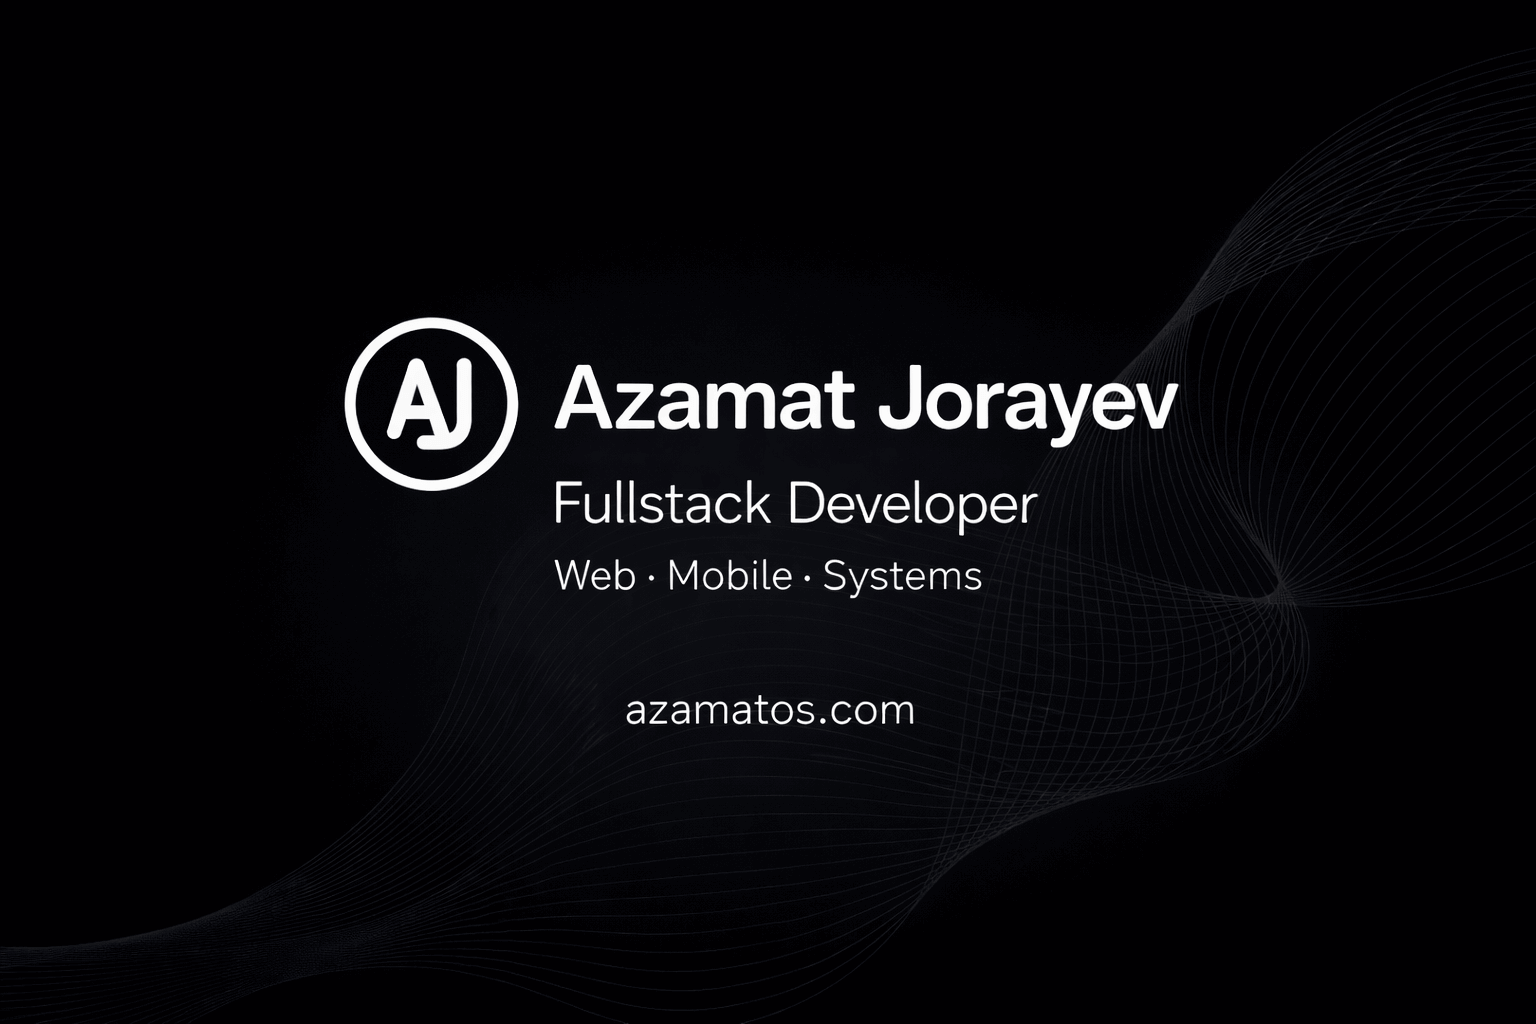
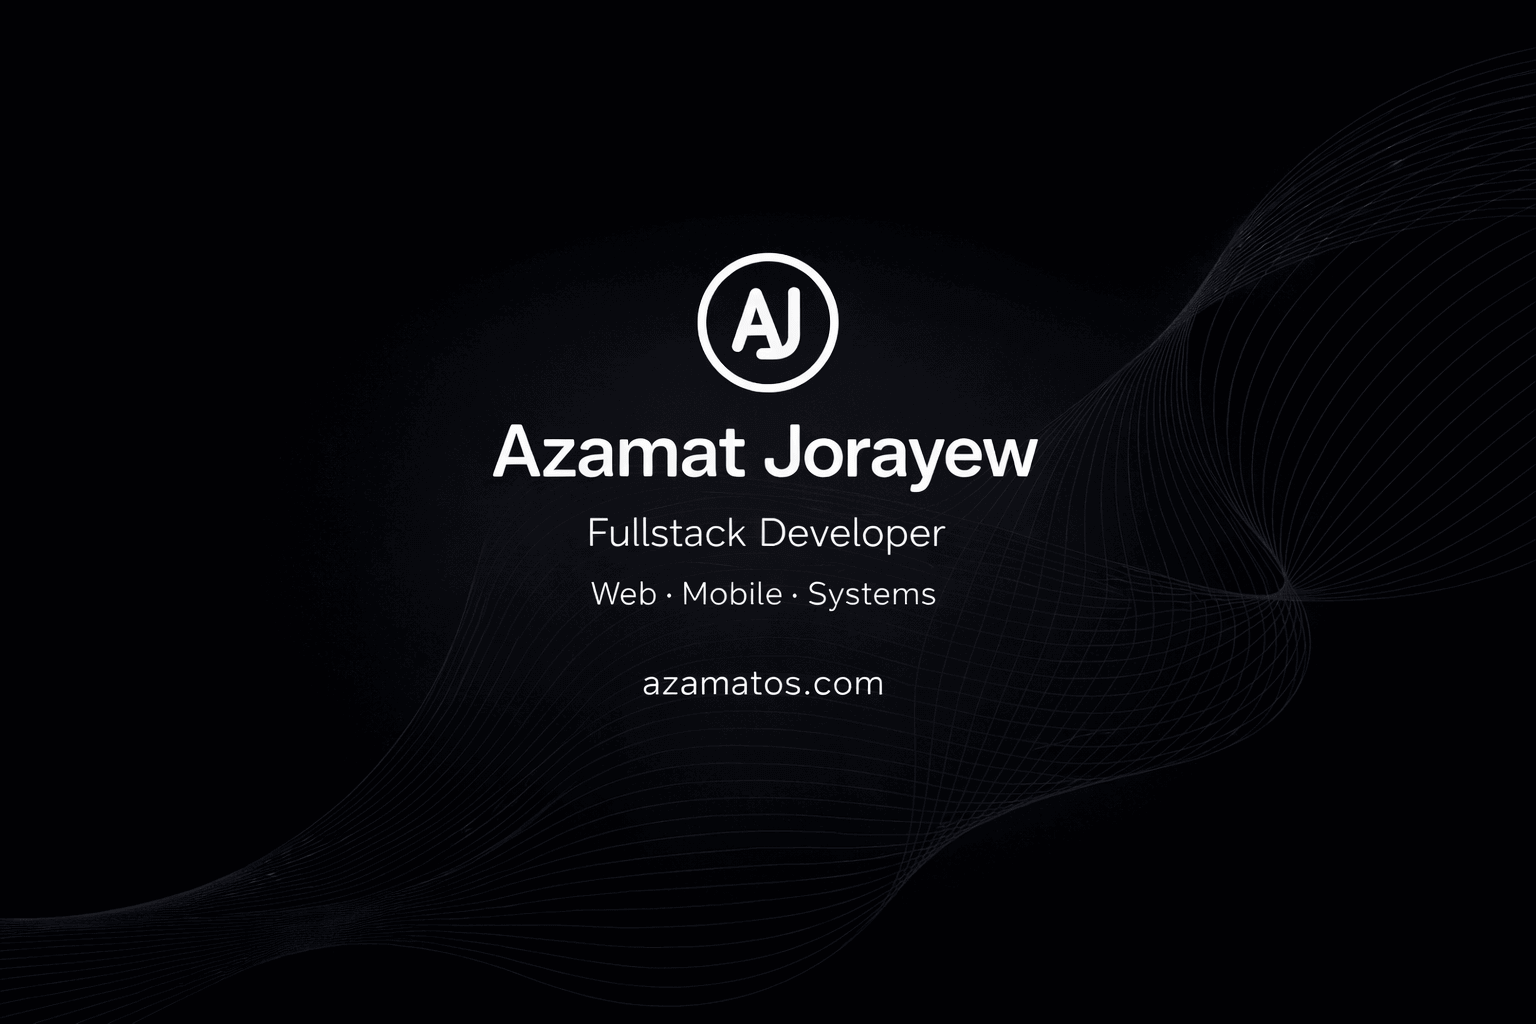
fix: Update lastname

diff --git a/index.html b/index.html
@@ -6,17 +6,17 @@
 
   <meta name="viewport" content="width=device-width, initial-scale=1.0" />
 
-  <title>Azamat Jorayev — Fullstack Developer</title>
+  <title>Azamat Jorayew — Fullstack Developer</title>
 
   <!-- SEO -->
 
   <meta name="description"
-    content="Azamat Jorayev — Fullstack developer focused on backend systems, scalable architecture and modern web technologies." />
+    content="Azamat Jorayew — Fullstack developer focused on backend systems, scalable architecture and modern web technologies." />
 
   <meta name="keywords"
-    content="Azamat Jorayev, azamatos, fullstack developer, backend developer, typescript developer, nestjs developer" />
+    content="Azamat Jorayew, azamatos, fullstack developer, backend developer, react native, nestjs, typescript, frontend developer" />
 
-  <meta name="author" content="Azamat Jorayev" />
+  <meta name="author" content="Azamat Jorayew" />
 
   <meta name="robots" content="index, follow" />
 
@@ -27,7 +27,7 @@
   <!-- OPEN GRAPH (Telegram / Discord / LinkedIn) -->
 
   <meta property="og:type" content="website" />
-  <meta property="og:title" content="Azamat Jorayev — Fullstack Developer" />
+  <meta property="og:title" content="Azamat Jorayew — Fullstack Developer" />
   <meta property="og:description"
     content="Fullstack developer focused on backend systems, scalable architecture and modern web technologies." />
   <meta property="og:url" content="https://azamatos.com" />
@@ -40,7 +40,7 @@
   <!-- TWITTER -->
 
   <meta name="twitter:card" content="summary_large_image" />
-  <meta name="twitter:title" content="Azamat Jorayev — Fullstack Developer" />
+  <meta name="twitter:title" content="Azamat Jorayew — Fullstack Developer" />
   <meta name="twitter:description"
     content="Fullstack developer focused on scalable backend systems and modern web technologies." />
   <meta name="twitter:image" content="https://azamatos.com/og-image.png" />
@@ -75,12 +75,12 @@
   {
     "@context": "https://schema.org",
     "@type": "Person",
-    "name": "Azamat Jorayev",
+    "name": "Azamat Jorayew",
     "url": "https://azamatos.com",
     "jobTitle": "Fullstack Developer",
     "sameAs": [
       "https://github.com/azamatos",
-      "https://linkedin.com/in/azamatos"
+      "https://linkedin.com/in/igwt"
     ]
   }
   </script>

diff --git a/src/components/footer.ts b/src/components/footer.ts
@@ -60,7 +60,7 @@ export class SiteFooter extends LitElement {
   render() {
     return html`
       <footer>
-        <span class="copy">© ${new Date().getFullYear()} Azamat Jorayev</span>
+        <span class="copy">© ${new Date().getFullYear()} Azamat Jorayew</span>
         <nav class="links" aria-label="Social links">
           <a href="https://github.com/azamatos" target="_blank" rel="noopener" aria-label="GitHub">
             <svg viewBox="0 0 98 96" fill="none" xmlns="http://www.w3.org/2000/svg">

diff --git a/src/components/hero/index.ts b/src/components/hero/index.ts
@@ -97,7 +97,7 @@ export class HeroSection extends LitElement {
       <section>
         <div class="content">
           <h1>
-            Hi, I'm <span class="name">Azamat Jorayev.</span>
+            Hi, I'm <span class="name">Azamat Jorayew.</span>
           </h1>
           <hero-title></hero-title>
           <div class="subtitle-container">

diff --git a/README.md b/README.md
@@ -24,7 +24,7 @@ The project focuses on **performance**, **simplicity**, and **clean architecture
 
 ## Author
 
-**Azamat Jorayev**
+**Azamat Jorayew**
 
 - Website: [`azamatos.com`](https://azamatos.com)  
 - GitHub: [`azamatos`](https://github.com/azamatos)
